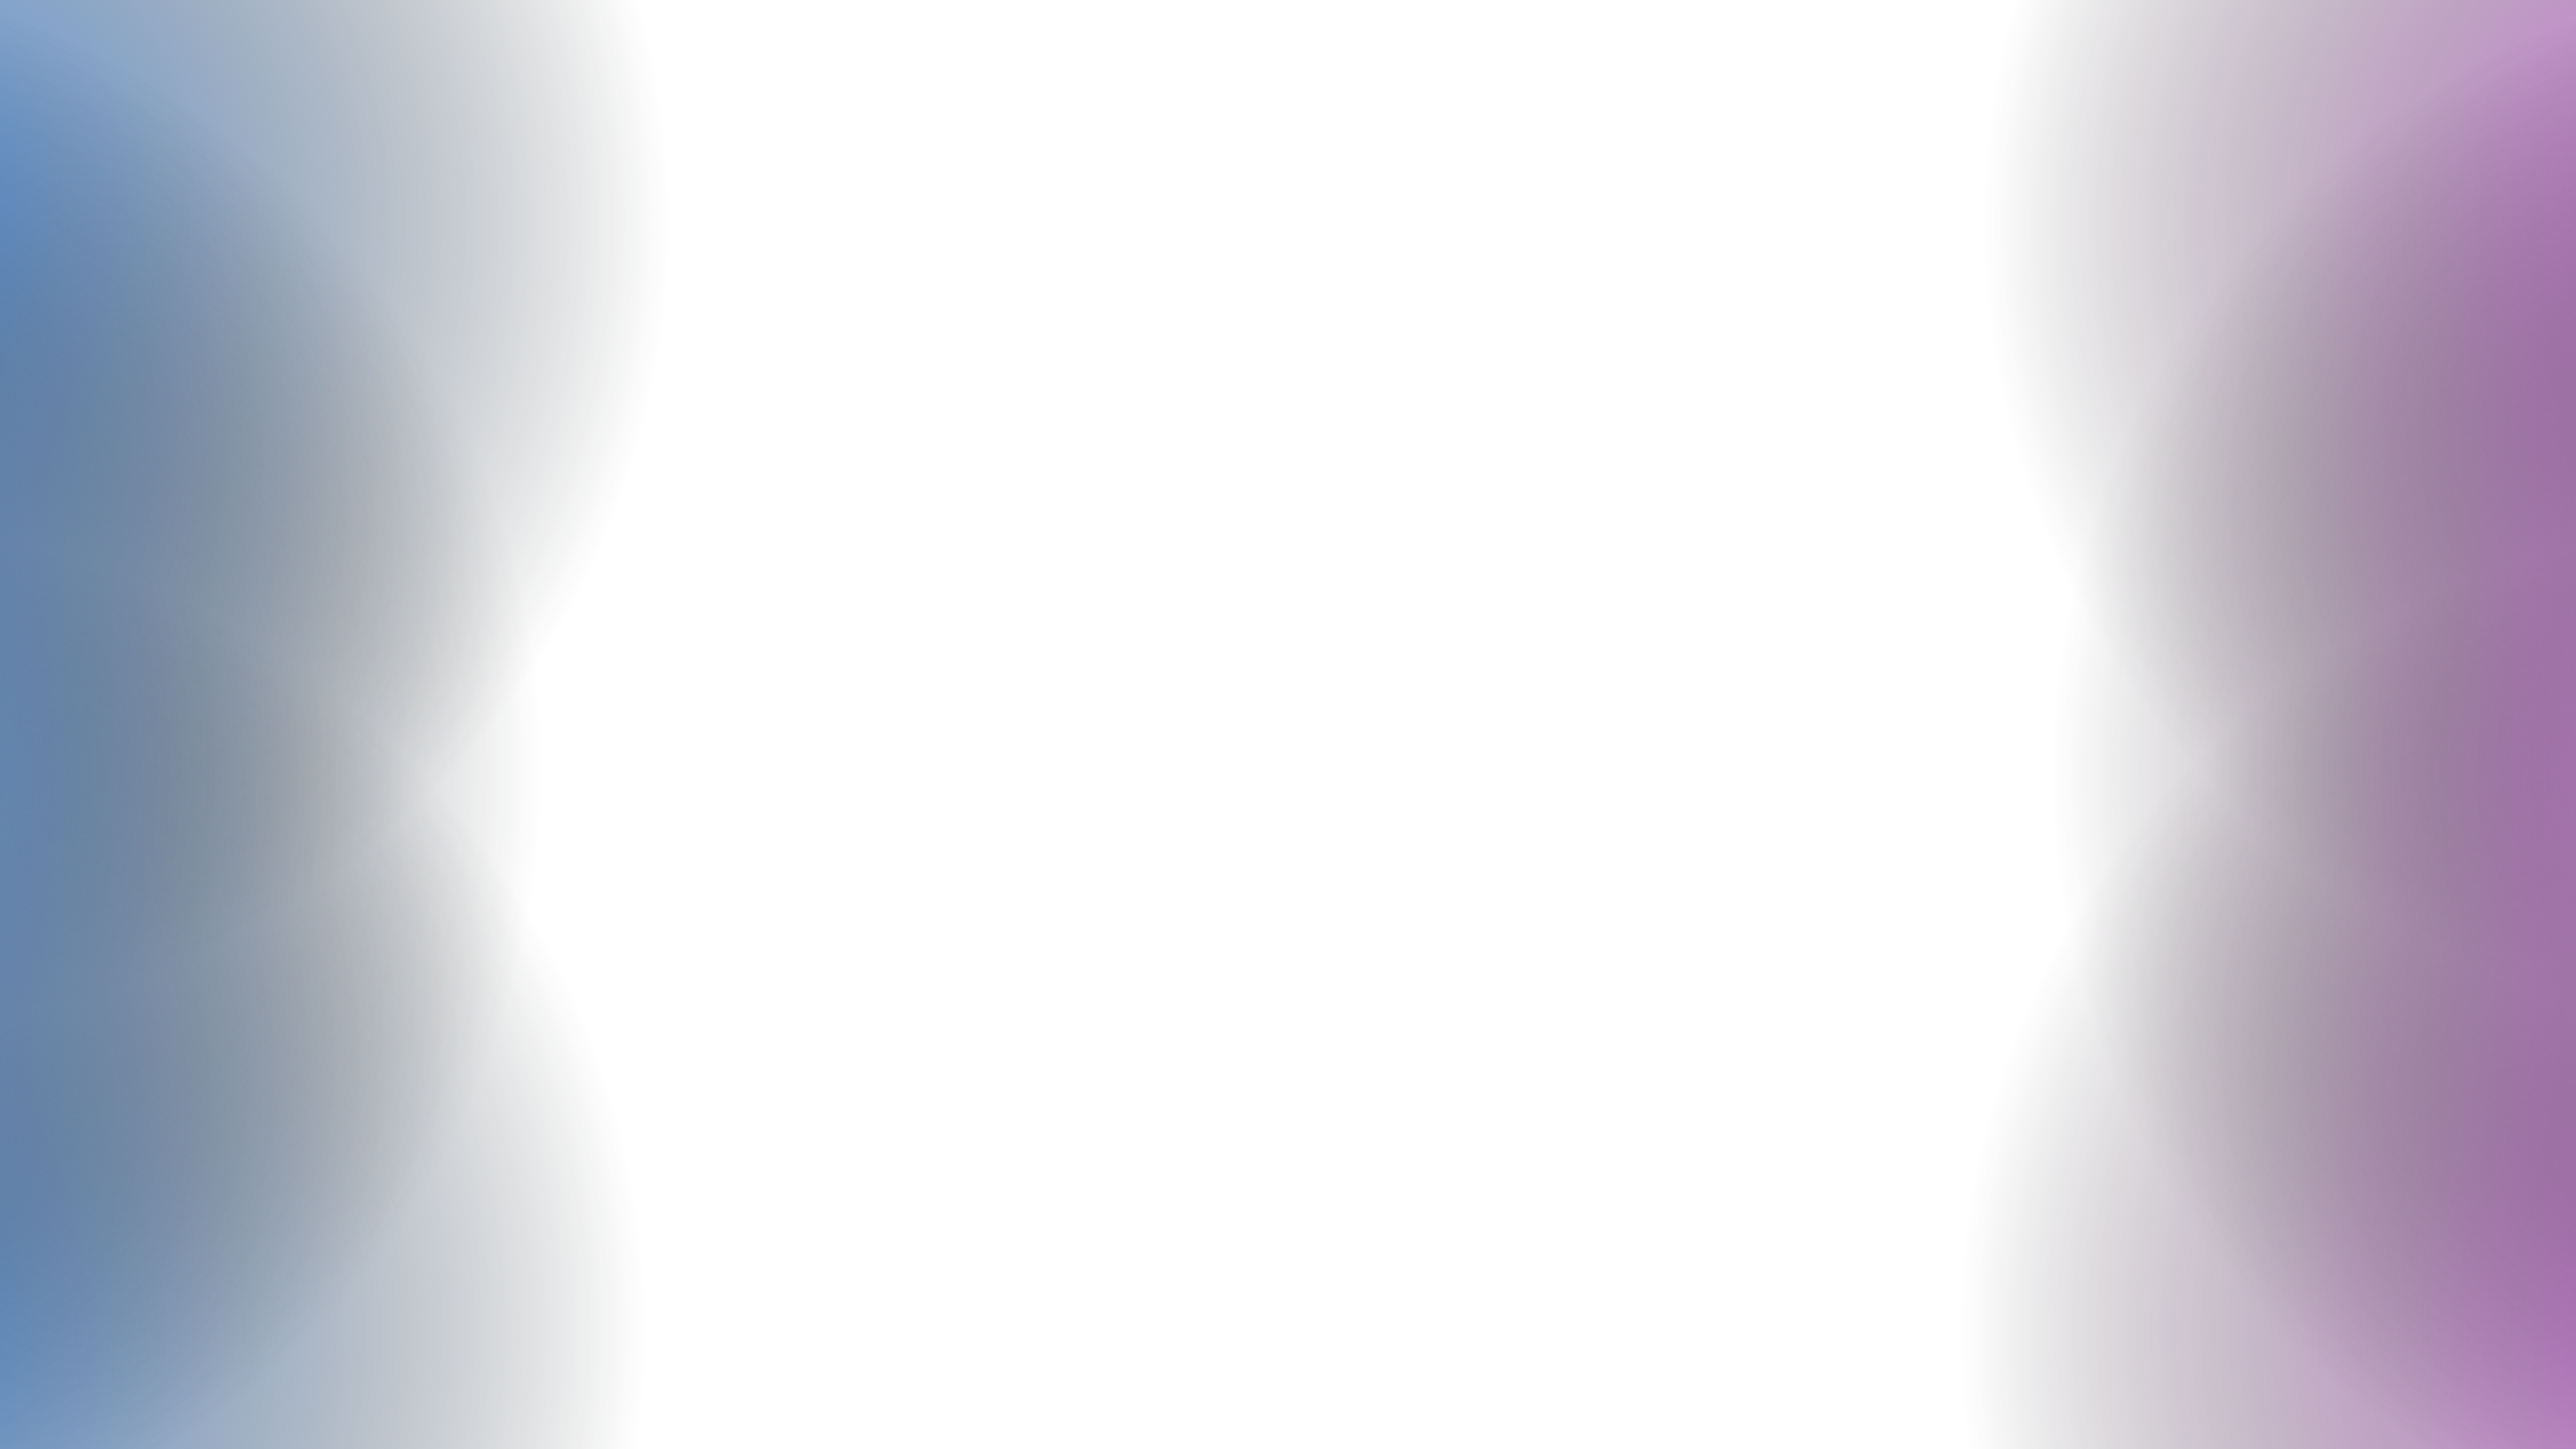
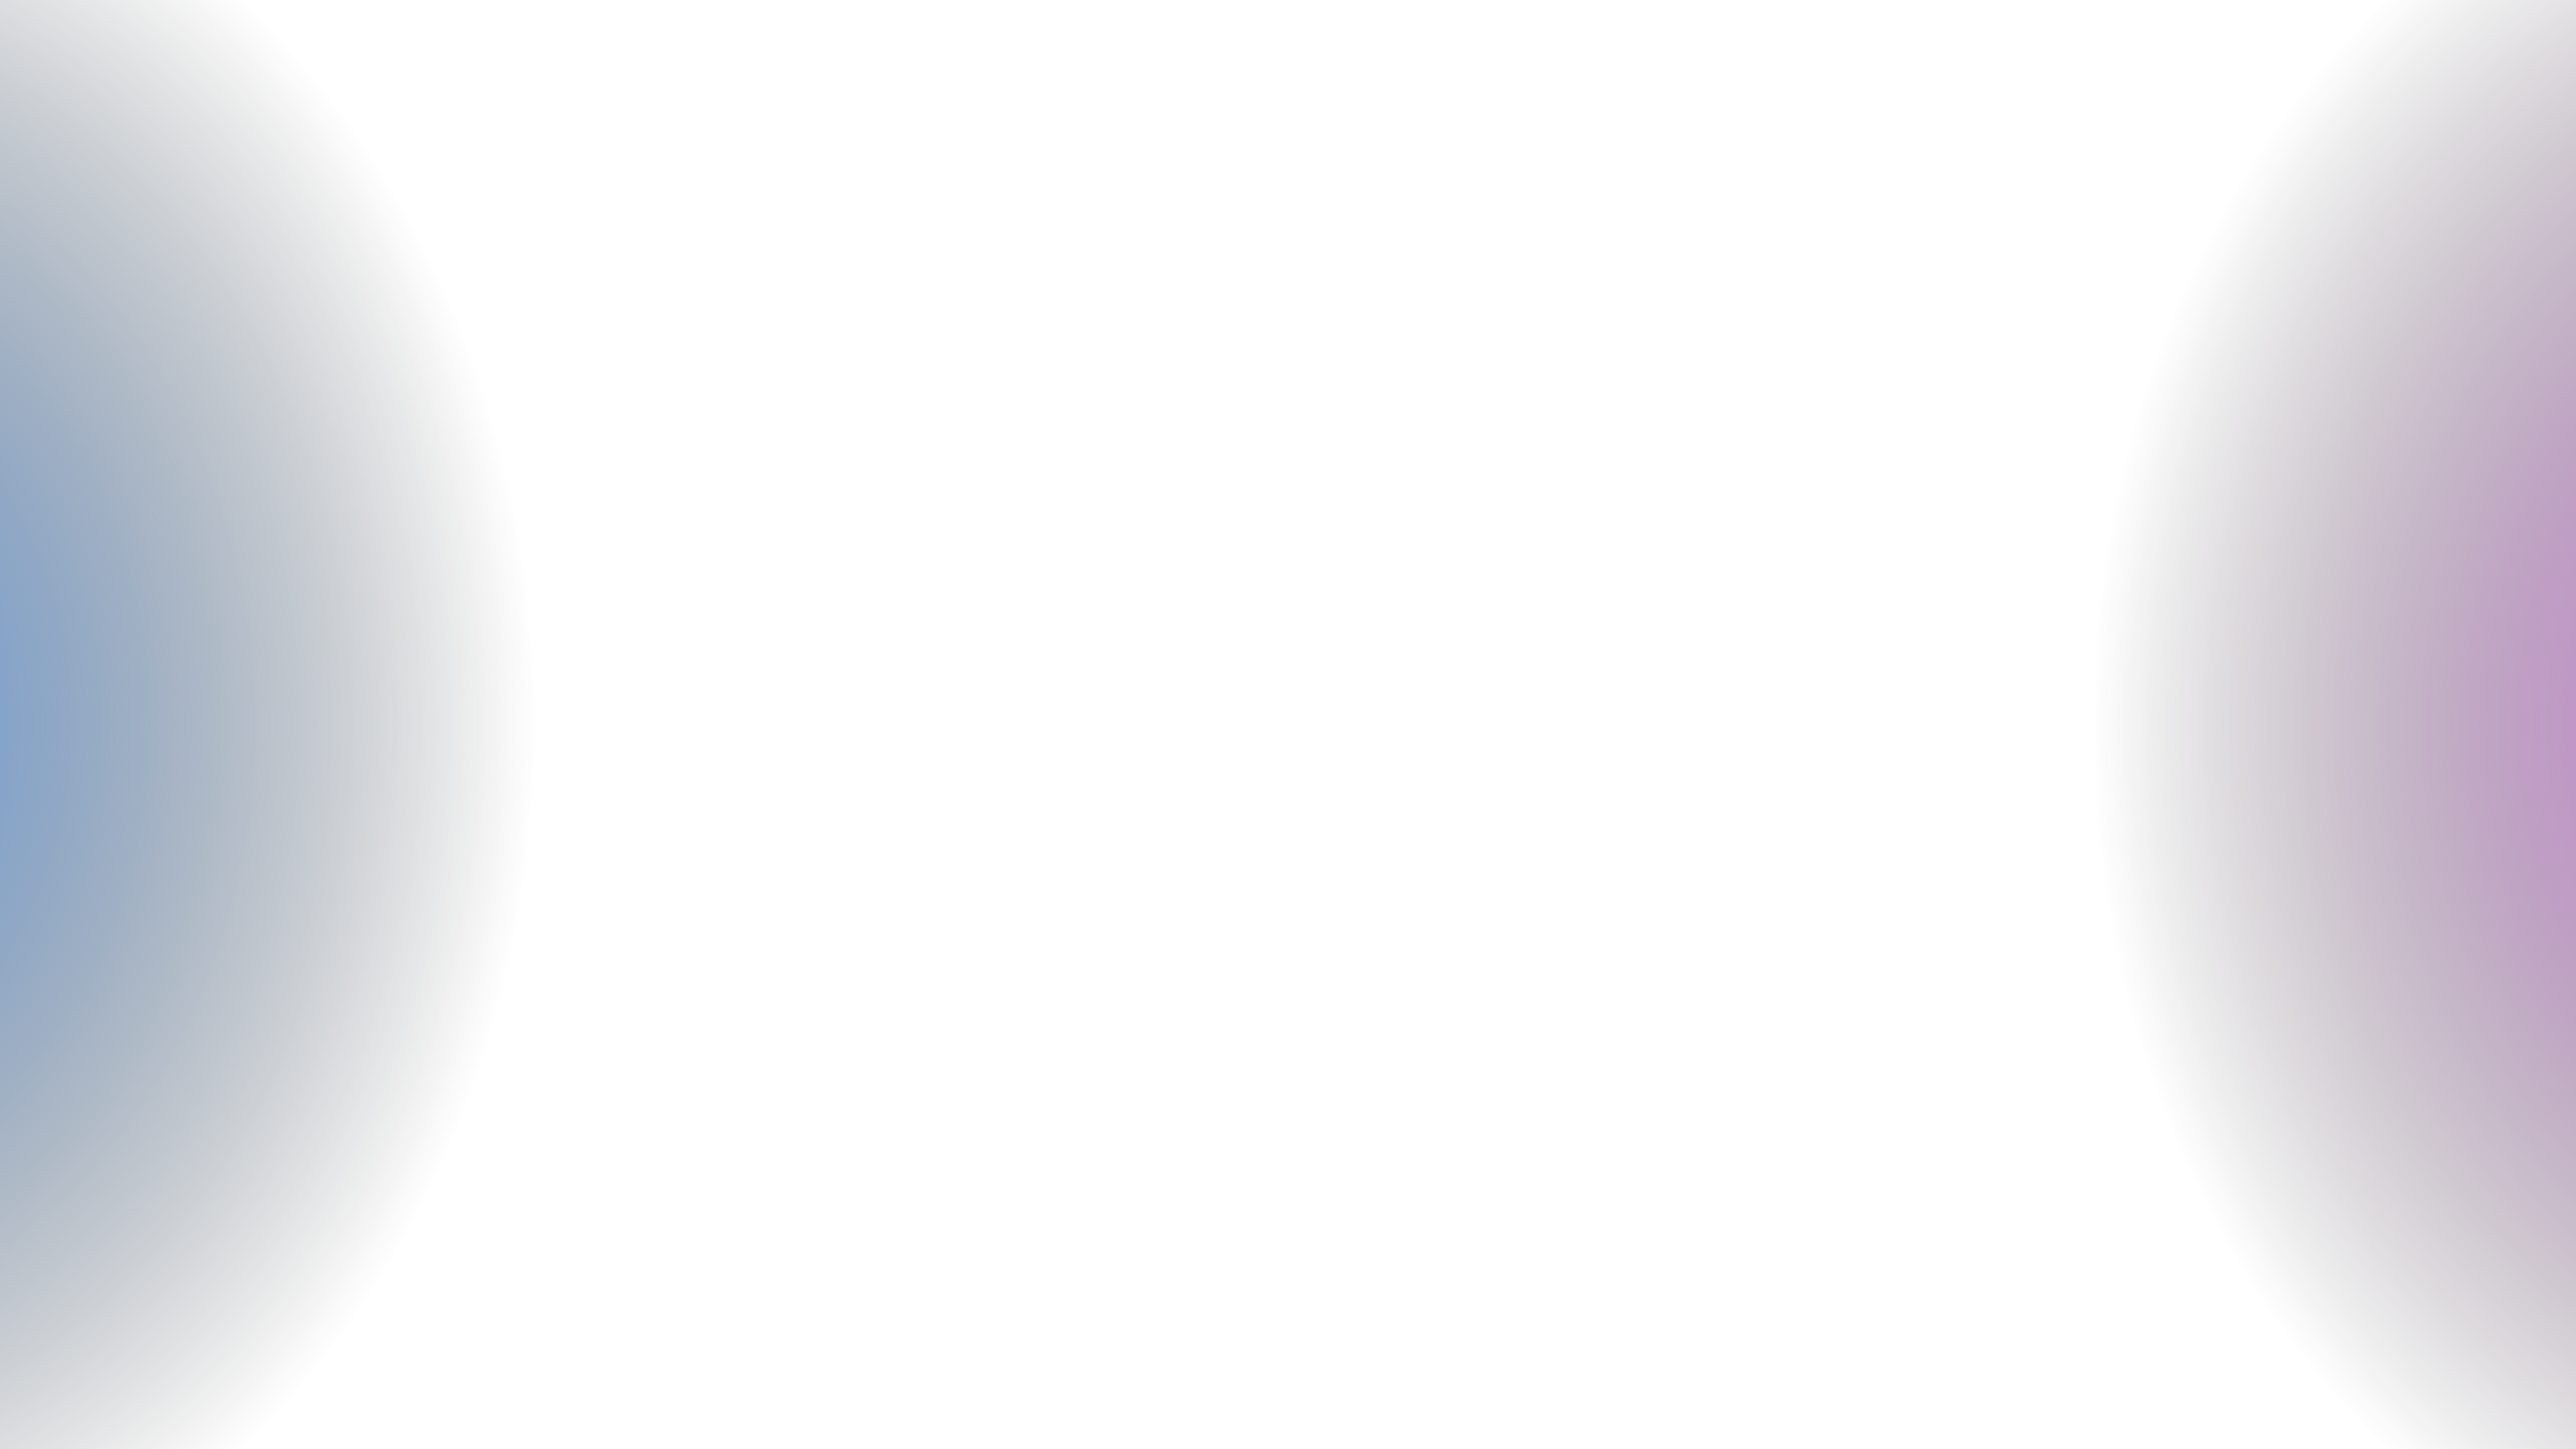
Adjust positioning for aurora background gradient on mobile.

diff --git a/assets/css/tailwind.css b/assets/css/tailwind.css
@@ -7,7 +7,8 @@ body {
   background-image: url('@/assets/images/aurora-bg.png');
   background-repeat: no-repeat;
   background-attachment: fixed;
-  background-size: cover;
+  background-size: 100vw 100%;
+  backdrop-filter: blur(1rem);
 }
 
 .link-hover {
